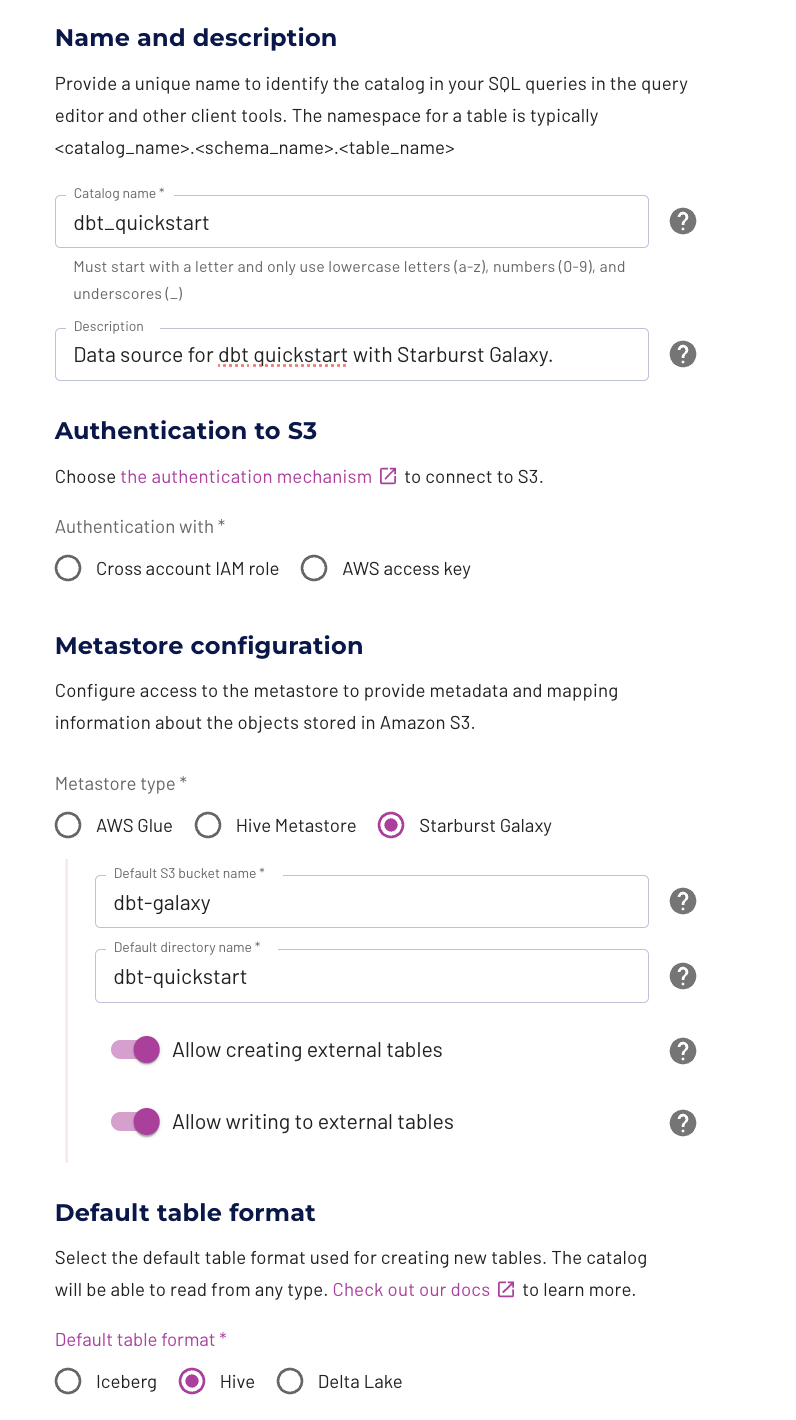
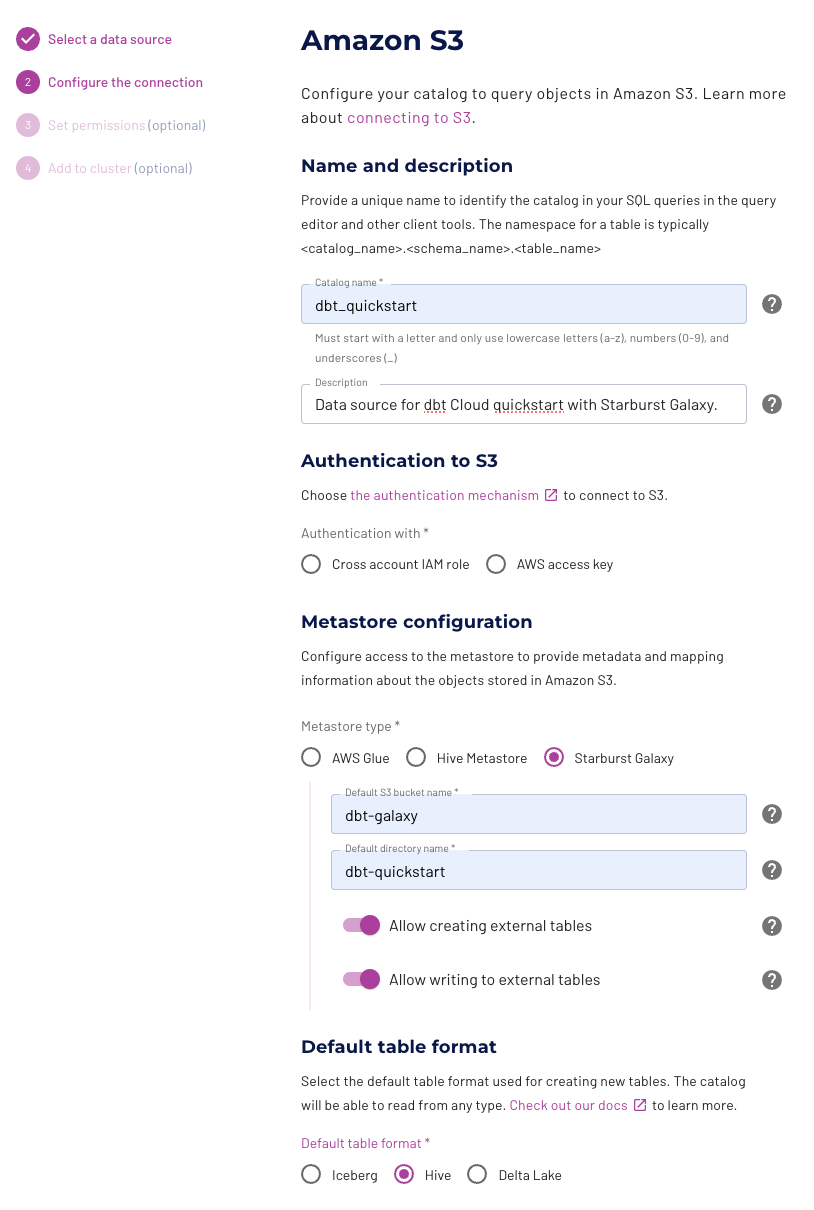
Related contetn and various edits

diff --git a/website/docs/docs/quickstarts/dbt-cloud/starburst-galaxy-qs.md b/website/docs/docs/quickstarts/dbt-cloud/starburst-galaxy-qs.md
@@ -5,9 +5,9 @@ id: "starburst-galaxy"
 sidebar_label: "Starburst Galaxy quickstart"
 ---
 
-In this quickstart guide, you'll learn how to use dbt Cloud with Starburst Galaxy. It will show you how to:
+In this quickstart guide, you'll learn how to use dbt Cloud with [Starburst Galaxy](https://www.starburst.io/). It will show you how to:
 
-- Load data to the Amazon S3 bucket. This guide uses AWS as the cloud service provider for demonstrative purposes. Starburst Galaxy also supports other providers such as Google Cloud, Microsoft Azure, and more. 
+- Load data to the Amazon S3 bucket. This guide uses AWS as the cloud service provider for demonstrative purposes. Starburst Galaxy also [supports other providers](https://www.starburst.io/platform/connectors/) such as Google Cloud, Microsoft Azure, and more. 
 - Connect Starburst Galaxy to the Amazon S3 bucket.
 - Create tables with Starburst Galaxy.
 - Connect dbt Cloud to Starburst Galaxy.
@@ -23,22 +23,24 @@ You can check out [dbt Fundamentals](https://courses.getdbt.com/courses/fundamen
 
 ## Prerequisites 
 - You have a [dbt Cloud account](https://www.getdbt.com/signup/).
-- You have [a trial Starburst Galaxy account](https://www.starburst.io/platform/starburst-galaxy/.) . For details, refer to the [getting started guide](https://docs.starburst.io/starburst-galaxy/get-started.html) in the Starburst Galaxy docs.
-- You have an AWS account with permissions to upload data to an S3 bucket. This guide uses AWS as the cloud service provider for demonstrative purposes.
-- For AWS (S3) authentication, you will need either an AWS access key and AWS secret key with access to the bucket, or you will need a cross account IAM role with access to the bucket. For details, refer to these Starburst Galaxy docs: 
+- You have [a trial Starburst Galaxy account](https://www.starburst.io/platform/starburst-galaxy/). For details, refer to the [getting started guide](https://docs.starburst.io/starburst-galaxy/get-started.html) in the Starburst Galaxy docs.
+- You have an AWS account with permissions to upload data to an S3 bucket.
+- For Amazon S3 authentication, you will need either an AWS access key and AWS secret key with access to the bucket, or you will need a cross account IAM role with access to the bucket. For details, refer to these Starburst Galaxy docs: 
     - [AWS access and secret key instructions](https://docs.starburst.io/starburst-galaxy/security/external-aws.html#aws-access-and-secret-key)
     - [Cross account IAM role](https://docs.starburst.io/starburst-galaxy/security/external-aws.html#role)
 
 ## Load data to an Amazon S3 bucket {#load-data-to-s3}
 
-To be able to use Starburst Galaxy to create tables that can be transformed with dbt Cloud, you will need to upload the sample data to the object storage service for your cloud provider.
+Using Starburst Galaxy, you can create tables and also transform them with dbt. Start by loading the Jaffle Shop data (provided by dbt Labs) to your Amazon S3 bucket. Jaffle Shop is a fictional cafe selling food and beverages in several US cities. 
 
-1. Download these CSV files (Jaffle Shop sample data) to your local machine:
+1. Download these CSV files to your local machine:
 
     - [jaffle_shop_customers.csv](https://dbt-tutorial-public.s3-us-west-2.amazonaws.com/jaffle_shop_customers.csv)
     - [jaffle_shop_orders.csv](https://dbt-tutorial-public.s3-us-west-2.amazonaws.com/jaffle_shop_orders.csv)
     - [stripe_payments.csv](https://dbt-tutorial-public.s3-us-west-2.amazonaws.com/stripe_payments.csv)
-2. Upload these files to S3. When uploading these files, you must create the following folder structure and upload the appropriate file to each folder:
+2. Upload these files to S3. For details, refer to [Upload objects](https://docs.aws.amazon.com/AmazonS3/latest/userguide/upload-objects.html) in the Amazon S3 docs. 
+    
+    When uploading these files, you must create the following folder structure and upload the appropriate file to each folder:
 
     ```
     <bucket/blob>
@@ -52,7 +54,9 @@ To be able to use Starburst Galaxy to create tables that can be transformed with
     ```
 
 ## Connect Starburst Galaxy to the Amazon S3 bucket
-If your Starburst Galaxy instance is not already connected to your S3 bucket, you need to create a cluster, create a catalog that connects to the S3 bucket, associate the new catalog (your data source) to your new cluster, and configure access control settings. 
+If your Starburst Galaxy instance is not already connected to your S3 bucket, you need to create a cluster, create a catalog that connects to the S3 bucket, associate the new catalog (your data source) to your new cluster, and configure privilege settings. 
+
+In addition to Amazon S3, Starburst Galaxy supports many other data sources. To learn more about them, you can refer to the [Catalogs overview](https://docs.starburst.io/starburst-galaxy/catalogs/index.html) in the Starburst Galaxy docs.  
 
 1. Create a cluster. Click **Clusters** on the left sidebar of the Starburst Galaxy UI, then click **Create cluster** in the main body of the page. 
 2. In the **Create a new cluster** modal, you only need to set the following options. You can use the defaults for the other options.
@@ -62,9 +66,9 @@ If your Starburst Galaxy instance is not already connected to your S3 bucket, yo
     When done, click **Create cluster**.
 
 1. Create a catalog. Click **Catalogs** on the left sidebar of the Starburst Galaxy UI, then click **Create catalog** in the main body of the page. 
-2. On the **Create a data source** page, select Amazon S3. 
-3. In the **Name and description** section, fill out the fields. 
-4. In the **Authentication to S3** section, select the [mechanism you chose to connect to the bucket](#prerequisites).
+2. On the **Create a data source** page, select the Amazon S3 tile. 
+3. In the **Name and description** section of the **Amazon S3** page, fill out the fields. 
+4. In the **Authentication to S3** section of the **Amazon S3** page, select the [AWS (S3) authentication mechanism](#prerequisites) you chose to connect with.
 5. In the **Metastore configuration** section, set these options:
     - **Default S3 bucket name** &mdash; Enter the name of your S3 bucket you want to access.
     - **Default directory name** &mdash; Enter the folder name of where the Jaffle Shop data lives in the S3 bucket. This is the same folder name you used in [Load data to an Amazon S3 bucket](#load-data-to-s3).
@@ -72,22 +76,25 @@ If your Starburst Galaxy instance is not already connected to your S3 bucket, yo
     - **Allow writing to external tables** &mdash; Enable this option.
 6. In the **Default table format** section, choose **Hive**. 
 
+    The **Amazon S3** page should look similar to this, except for the **Authentication to S3** section which is dependant on your setup:
+
     <Lightbox src="/img/quickstarts/dbt-cloud/starburst-galaxy-config-s3.png" title="Amazon S3 connection settings in Starburst Galaxy" />
 
 7. Click **Test connection**. This verifies that Starburst Galaxy can access your S3 bucket. 
 8. Click **Connect catalog** if the connection test passes.
-
     <Lightbox src="/img/quickstarts/dbt-cloud/test-connection-success.png" title="Successful connection test" />
 
-9. On the **Set permissions** page, click **Skip**. You can add permissions later if you prefer.
+9. On the **Set permissions** page, click **Skip**. You can add permissions later if you want.
 10. On the **Add to cluster** page, choose the cluster you want to add the data source to from the dropdown and click **Add to cluster**.
-11. Add the location privilege for your S3 bucket to your role in Starburst Galaxy. Click **Access control > Roles and privileges** on the left sidebar of the Starburst Galaxy UI. In the main body of the page, click the **accountadmin** role. 
+11. Add the location privilege for your S3 bucket to your role in Starburst Galaxy. Click **Access control > Roles and privileges** on the left sidebar of the Starburst Galaxy UI. Then, in the **Roles** table, click the role name **accountadmin**. 
 
     If you're using an existing Starburst Galaxy cluster and don't have access to the accountadmin role, then select a role that you do have access to.
+
+    To learn more about access control, refer to [Access control](https://docs.starburst.io/starburst-galaxy/security/access-control.html) in the Starburst Galaxy docs. 
 1. On the **Roles** page, click the **Privileges** tab and click **Add privilege**.
 2. On the **Add privilege** page, set these options:
     - **What would you like to modify privileges for?** &mdash; Choose **Location**.
-    - **Enter a storage location provide** &mdash; Enter the location of your S3 bucket and the folder of where the Jaffle Shop data lives. Make sure to include the `/*` at the end of the location. 
+    - **Enter a storage location provide** &mdash; Enter the storage location of _your S3 bucket_ and the folder of where the Jaffle Shop data lives. Make sure to include the `/*` at the end of the location. 
     - **Create SQL** &mdash; Enable the option. 
     
     When done, click **Add privileges**.
@@ -95,16 +102,16 @@ If your Starburst Galaxy instance is not already connected to your S3 bucket, yo
     <Lightbox src="/img/quickstarts/dbt-cloud/add-privilege.png" title="Add privilege to accountadmin role" />
 
 ## Create tables with Starburst Galaxy
-To query the Jaffle Shop data with Starburst Galaxy, you need to create tables using the CSV files that you uploaded to your S3 bucket. 
+To query the Jaffle Shop data with Starburst Galaxy, you need to create tables using the Jaffle Shop data that you [loaded to your S3 bucket](#load-data-to-s3). You can do this (and run any SQL statement) from the [query editor](https://docs.starburst.io/starburst-galaxy/query/index.html). 
 
-1. Click **Query > Query editor** on the left sidebar of the Starburst Galaxy UI. The Query editor is now the main body of the page. 
-2. Configure the Query editor settings so it queries your S3 bucket. In the upper right of the editor, select your cluster in the first gray box and select your catalog in the second gray box:
+1. Click **Query > Query editor** on the left sidebar of the Starburst Galaxy UI. The main body of the page is now the query editor. 
+2. Configure the query editor so it queries your S3 bucket. In the upper right corner of the query editor, select your cluster in the first gray box and select your catalog in the second gray box:
 
-    <Lightbox src="/img/quickstarts/dbt-cloud/starburst-galaxy-editor.png" title="Set the cluster and catalog in Query editor" />
+    <Lightbox src="/img/quickstarts/dbt-cloud/starburst-galaxy-editor.png" title="Set the cluster and catalog in query editor" />
 
-3. Copy and paste these queries into the Query editor. Then **Run** each query individually. 
+3. Copy and paste these queries into the query editor. Then **Run** each query individually. 
 
-    Replace `YOUR_S3_BUCKET_NAME` with the name of your S3 bucket you uploaded the sample data files to. These queries create a schema named `jaffle_shop` and also create the `jaffle_shop_customers`, `jaffle_shop_orders`, and `stripe_payments` tables: 
+    Replace `YOUR_S3_BUCKET_NAME` with the name of your S3 bucket. These queries create a schema named `jaffle_shop` and also create the `jaffle_shop_customers`, `jaffle_shop_orders`, and `stripe_payments` tables: 
 
     ```sql
     CREATE SCHEMA jaffle_shop WITH (location='s3://YOUR_S3_BUCKET_NAME/dbt-quickstart/');
@@ -155,11 +162,11 @@ To query the Jaffle Shop data with Starburst Galaxy, you need to create tables u
 
     );
     ```
-4. When the queries are done, you can see the following hierarchy on the left sidebar of the Query editor:
+4. When the queries are done, you can see the following hierarchy on the query editor's left sidebar:
 
-    <Lightbox src="/img/quickstarts/dbt-cloud/starburst-data-hierarchy.png" title="Hierarchy of data in Query editor" />
+    <Lightbox src="/img/quickstarts/dbt-cloud/starburst-data-hierarchy.png" title="Hierarchy of data in query editor" />
 
-5. Verify that the tables were created successfully. In the Query editor, run the following queries:
+5. Verify that the tables were created successfully. In the query editor, run the following queries:
 
     ```sql
     select * from jaffle_shop.jaffle_shop_customers;
@@ -290,3 +297,10 @@ Later, you can connect your business intelligence (BI) tools to these views and 
 <Snippet src="quickstarts/test-and-document-your-project" />
 
 <Snippet src="quickstarts/schedule-a-job" />
+
+## Related content
+- Learn more with [dbt Courses](https://courses.getdbt.com/collections)
+- [dbt Cloud CI job](/docs/deploy/cloud-ci-job)
+- [Job notifications](/docs/deploy/job-notifications)
+- [Source freshness](/docs/deploy/source-freshness)
+- [SQL basics for Starburst Galaxy](https://docs.starburst.io/starburst-galaxy/tutorials/learn-basics.html)
